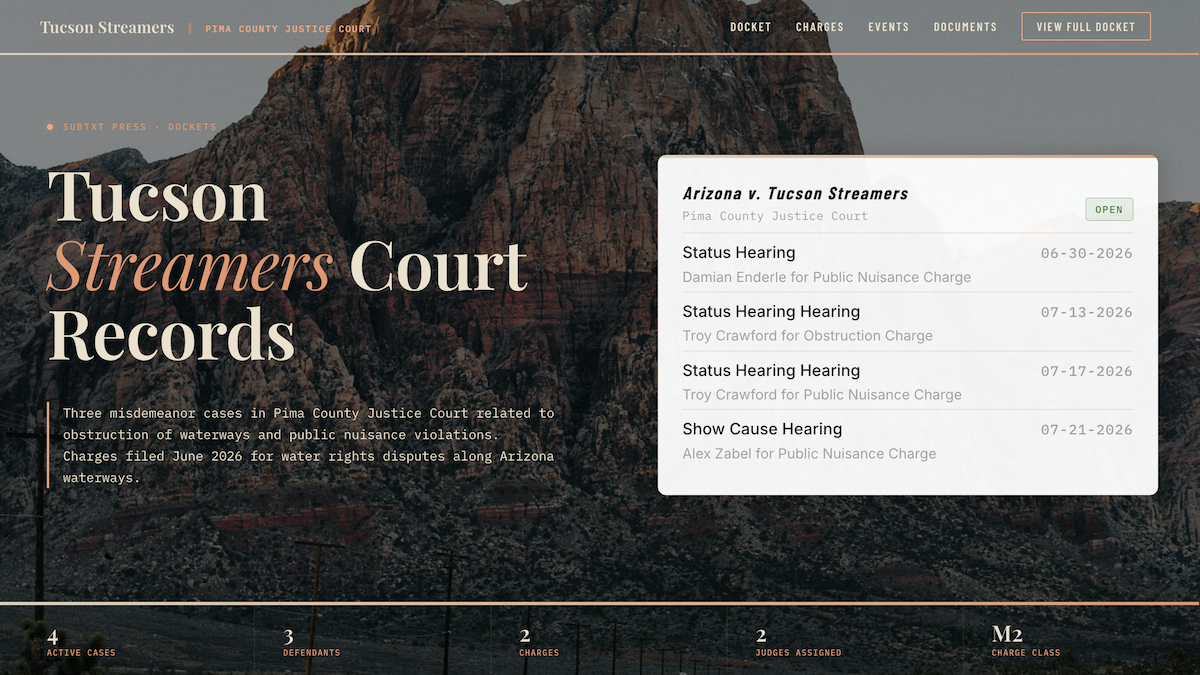
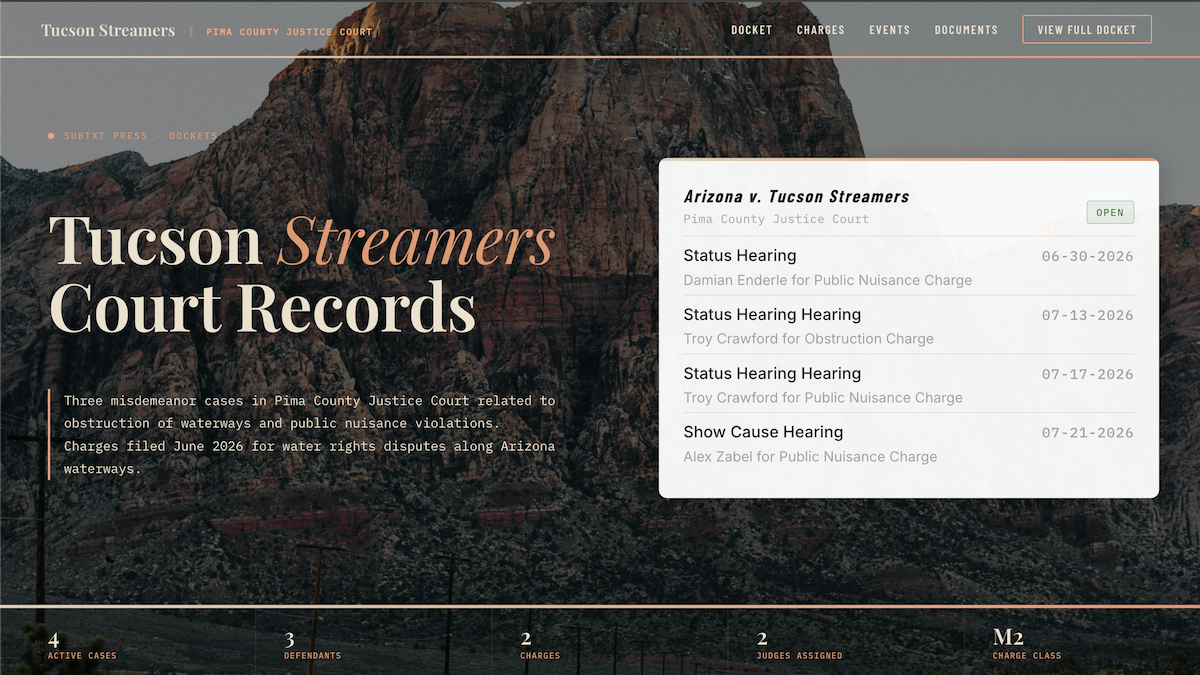
docket prev

diff --git a/dockets/tucson-streamers/img/docket-preview.html b/dockets/tucson-streamers/img/docket-preview.html
@@ -123,13 +123,13 @@
       flex-direction: column;
       position: relative;
       z-index: 5;
-      margin-top: 5%;
+      margin-top: 6%;
     }
     .eyebrow-line {
       display: flex;
       align-items: center;
       gap: 10px;
-      margin-bottom: 5%;
+      margin-bottom: 12%;
     }
     .eyebrow-dot {
       width: 6px;
@@ -149,11 +149,11 @@
     .headline {
       font-family: 'Playfair Display', serif;
       font-weight: 600;
-      font-size: 68px;
+      font-size: 66px;
       line-height: 1.02;
       color: var(--text-heading);
       letter-spacing: -0.01em;
-      margin-bottom: 7%;
+      margin-bottom: 10%;
     }
     .headline em {
       font-style: italic;
@@ -164,7 +164,7 @@
       font-family: 'IBM Plex Mono', monospace;
       font-size: 13px;
       font-weight: 400;
-      line-height: 1.65;
+      line-height: 1.75;
       color: var(--text-heading);
       border-left: 2px solid var(--accent);
       padding-left: 14px;

diff --git a/case/tucson-streamers/timeline.html b/case/tucson-streamers/timeline.html
@@ -1021,7 +1021,7 @@ var STEP_META = {
 
 // Initial map center and zoom
 var MAP_CENTER = [32.31224, -110.94084];   // [lat, lng] - Centered on Sue Ellen's easement
-var MAP_ZOOM = window.innerWidth > 768 ? 15.4 : 14.4;  // Zoom in on desktop, out on mobile
+var MAP_ZOOM = window.innerWidth > 768 ? 15 : 14;  // Zoom in on desktop, out on mobile
 
 
 // ═══════════════════════════════════════════════════════════
